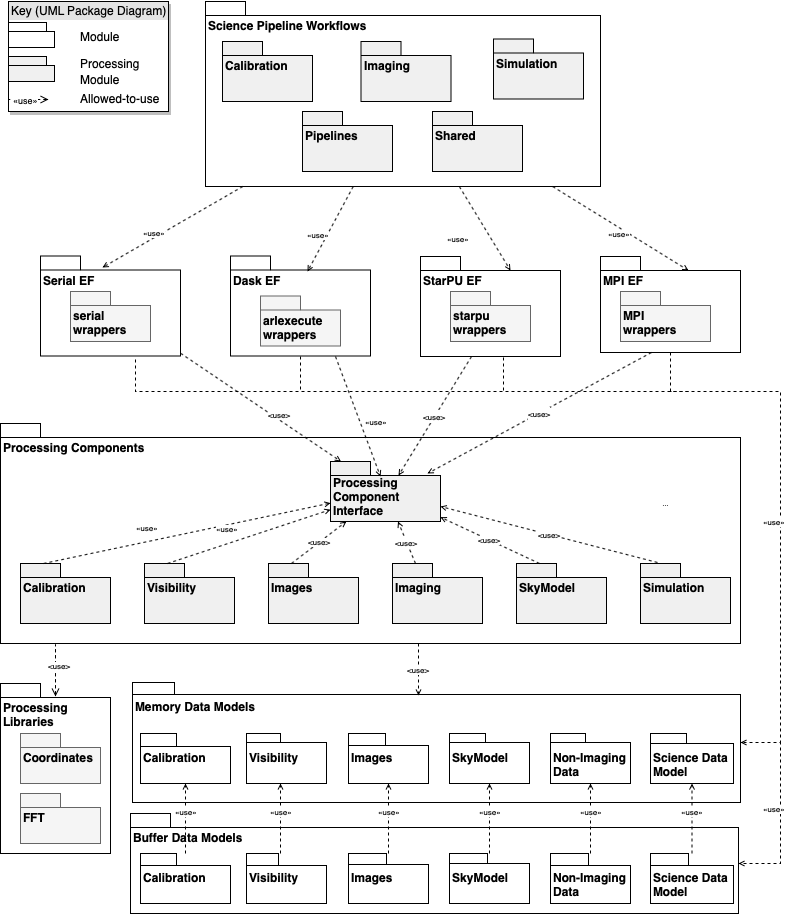
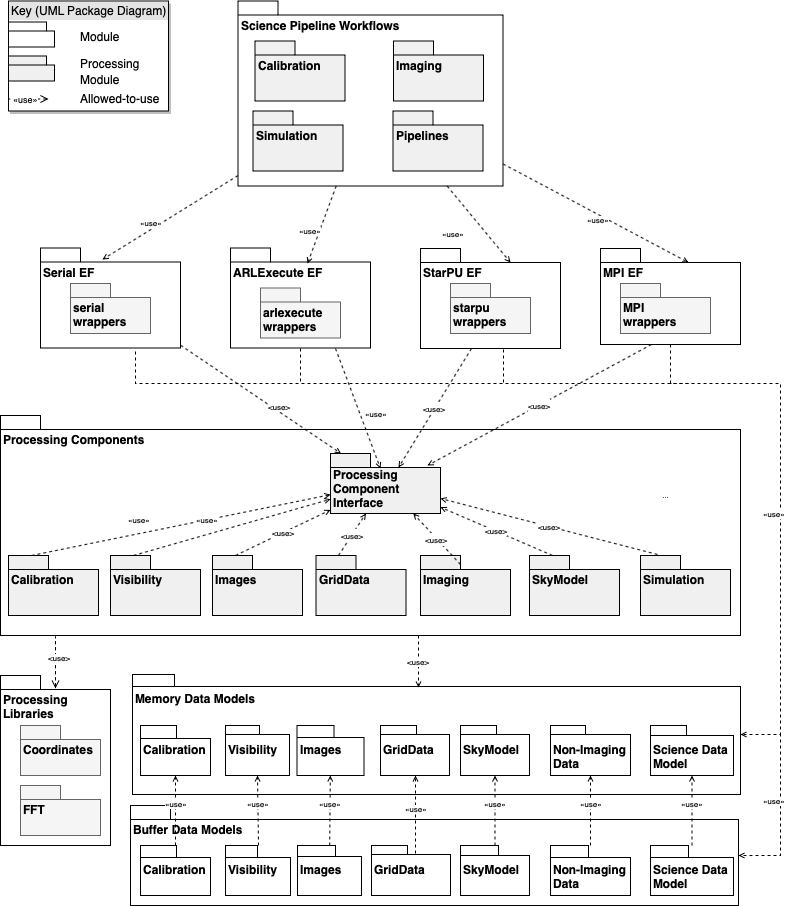
Move convolution_functions into griddata

diff --git a/tests/data_models/test_buffer_data_models.py b/tests/data_models/test_buffer_data_models.py
@@ -12,10 +12,10 @@ from astropy.coordinates import SkyCoord
 
 from data_models.buffer_data_models import BufferImage, BufferBlockVisibility, BufferGainTable, BufferSkyModel, \
     BufferConvolutionFunction, BufferGridData
-from data_models.memory_data_models import Skycomponent, SkyModel, BlockVisibility, GridData, ConvolutionFunction
+from data_models.memory_data_models import Skycomponent, SkyModel, BlockVisibility
 from data_models.polarisation import PolarisationFrame
 from processing_components.griddata.operations import create_griddata_from_image
-from processing_components.convolution_function.operations import create_convolutionfunction_from_image
+from processing_components.griddata.convolution_functions import create_convolutionfunction_from_image
 from processing_components.calibration.operations import create_gaintable_from_blockvisibility
 from processing_components.imaging.base import predict_skycomponent_visibility
 from processing_components.simulation.testing_support import create_named_configuration, \

diff --git a/tests/processing_components/test_griddata_kernels.py b/tests/processing_components/test_griddata_kernels.py
@@ -11,9 +11,9 @@ import numpy
 from astropy.coordinates import SkyCoord
 
 from processing_library.image.operations import create_image
-from processing_components.convolution_function.kernels import create_pswf_convolutionfunction, \
+from processing_components.griddata.kernels  import create_pswf_convolutionfunction, \
     create_awterm_convolutionfunction, create_box_convolutionfunction
-from processing_components.convolution_function.operations import convert_convolutionfunction_to_image, \
+from processing_components.griddata.convolution_functions import convert_convolutionfunction_to_image, \
     create_convolutionfunction_from_image, apply_bounding_box_convolutionfunction, \
     calculate_bounding_box_convolutionfunction
 from processing_components.image.operations import export_image_to_fits

diff --git a/tests/workflows/test_imaging_arlexecute.py b/tests/workflows/test_imaging_arlexecute.py
@@ -23,8 +23,8 @@ from wrappers.arlexecute.skycomponent.operations import find_skycomponents, find
     insert_skycomponent
 from wrappers.arlexecute.simulation.testing_support import create_named_configuration, ingest_unittest_visibility, \
     create_unittest_model, insert_unittest_errors, create_unittest_components
-from wrappers.arlexecute.convolution_function.kernels import create_awterm_convolutionfunction
-from wrappers.arlexecute.convolution_function.operations import apply_bounding_box_convolutionfunction
+from processing_components.griddata.kernels  import create_awterm_convolutionfunction
+from processing_components.griddata.convolution_functions  import apply_bounding_box_convolutionfunction
 
 log = logging.getLogger(__name__)
 

diff --git a/tests/workflows/test_imaging_serial.py b/tests/workflows/test_imaging_serial.py
@@ -20,8 +20,8 @@ from wrappers.serial.skycomponent.operations import find_skycomponents, find_nea
     insert_skycomponent
 from wrappers.serial.simulation.testing_support import create_named_configuration, ingest_unittest_visibility, \
     create_unittest_model, insert_unittest_errors, create_unittest_components
-from wrappers.serial.convolution_function.kernels import create_awterm_convolutionfunction
-from wrappers.serial.convolution_function.operations import apply_bounding_box_convolutionfunction
+from wrappers.serial.griddata.kernels import create_awterm_convolutionfunction
+from wrappers.serial.griddata.convolution_functions import apply_bounding_box_convolutionfunction
 
 log = logging.getLogger(__name__)
 

diff --git a/tests/data_models/test_data_model_helpers.py b/tests/data_models/test_data_model_helpers.py
@@ -26,7 +26,7 @@ from processing_components.simulation.testing_support import create_named_config
     simulate_gaintable, create_test_image
 from processing_components.visibility.base import create_visibility, create_blockvisibility
 from processing_components.griddata.operations import create_griddata_from_image
-from processing_components.convolution_function.operations import create_convolutionfunction_from_image
+from processing_components.griddata.convolution_functions import create_convolutionfunction_from_image
 
 
 class TestDataModelHelpers(unittest.TestCase):

diff --git a/tests/processing_components/test_imaging.py b/tests/processing_components/test_imaging.py
@@ -19,8 +19,7 @@ from processing_components.simulation.testing_support import create_named_config
 from processing_components.skycomponent.operations import find_skycomponents, find_nearest_skycomponent, \
     insert_skycomponent
 from processing_components.imaging.primary_beams import create_pb_generic
-from processing_components.convolution_function.kernels import create_awterm_convolutionfunction
-
+from processing_components.griddata.kernels import create_awterm_convolutionfunction
 
 log = logging.getLogger(__name__)
 

diff --git a/docs/ARL_directory_workflows.rst b/docs/ARL_directory_workflows.rst
@@ -12,7 +12,6 @@ Calibration workflows
 
 * Calibrate workflow: :py:mod:`workflows.arlexecute.calibration.calibration_arlexecute.calibrate_list_arlexecute_workflow`
 
-
 Imaging workflows
 =================
 
@@ -36,3 +35,33 @@ Execution
 =========
 
 * Execution framework (an interface to Dask): :py:mod:`wrappers.arlexecute.execution_support.arlexecute`
+
+Serial workflows
+****************
+
+Workflows created using the ARL processing components executed directly from python. These are higher level and fewer
+in number than processing components.
+
+Calibration workflows
+=====================
+
+* Calibrate workflow: :py:mod:`workflows.serial.calibration.calibration_serial.calibrate_list_serial_workflow`
+
+Imaging workflows
+=================
+
+* Invert: :py:mod:`workflows.serial.imaging.imaging_serial.invert_list_serial_workflow`
+* Predict: :py:mod:`workflows.serial.imaging.imaging_serial.predict_list_serial_workflow`
+* Deconvolve: :py:mod:`workflows.serial.imaging.imaging_serial.deconvolve_list_serial_workflow`
+
+Pipeline workflows
+==================
+
+* ICAL: :py:mod:`workflows.serial.pipelines.pipeline_serial.ical_list_serial_workflow`
+* Continuum imaging: :py:mod:`workflows.serial.pipelines.pipeline_serial.continuum_imaging_list_serial_workflow`
+* Spectral line imaging: :py:mod:`workflows.serial.pipelines.pipeline_serial.spectral_line_imaging_list_serial_workflow`
+
+Simulation workflows
+====================
+
+* Testing and simulation support: :py:mod:`workflows.serial.simulation.simulation_serial.simulate_list_serial_workflow`

diff --git a/docs/ARL_calibration.rst b/docs/ARL_calibration.rst
@@ -47,7 +47,7 @@ In this code:
 - A single modelpartition is taken to be a vector composed of skycomponent, gaintable tuples.
 
 - The E step for a specific window is the sum of the window data model and the discrepancy between the observed data
-and the summed modelpartitions.
+    and the summed modelpartitions.
 
 - The M step for a specific window is the optimisation of the skymodel vector given the window data model. This involves fitting a skycomponent and fitting for the gain phases.
 

diff --git a/docs/index.rst b/docs/index.rst
@@ -20,9 +20,8 @@ For clarity, not all connections are shown in this diagram.
 
    ARL_quickstart
    ARL_directory
+   ARL_directory_workflows
    ARL_API
-   ARL_directory_serial_workflows
-   ARL_directory_arlexecute_workflows
 
 Reference material:
 
